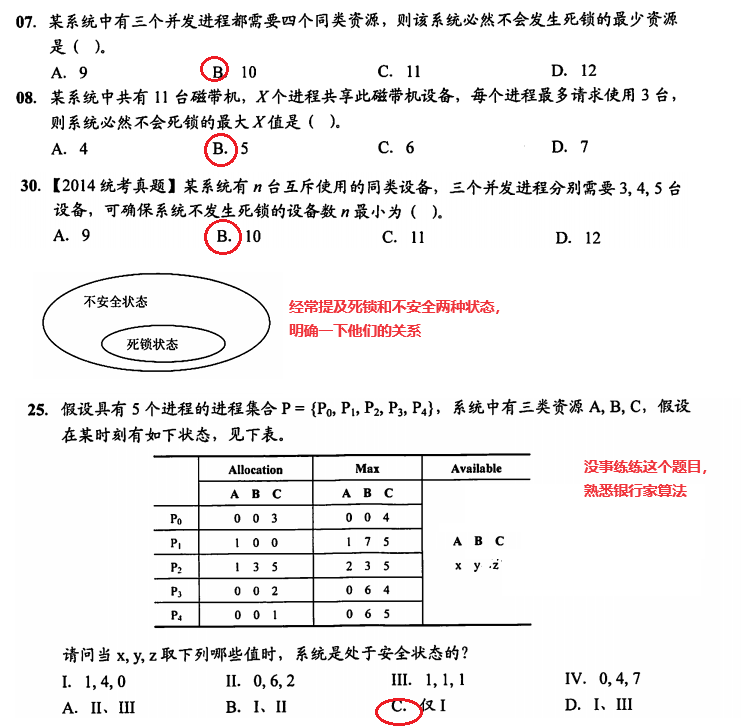
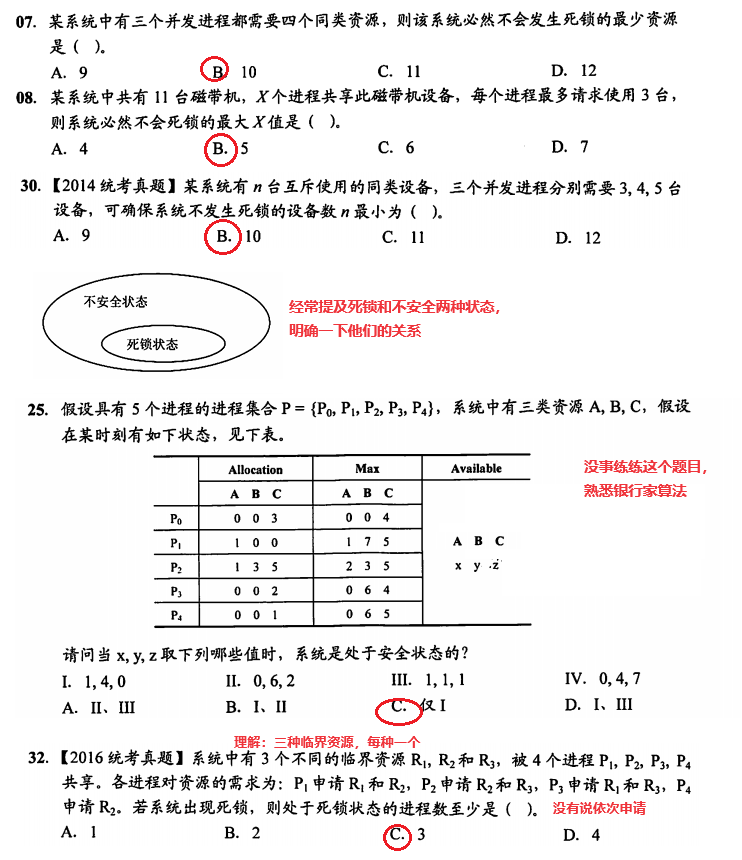
x

Changed region(s): [[0.0, 0.0, 0.9609, 1.0], [0.7749, 0.6364, 0.9609, 0.697], [0.7439, 0.7879, 0.8679, 0.8182]]

diff --git a/计算机专业课.md b/计算机专业课.md
@@ -56,3 +56,9 @@
 
 一些题目坐一坐：
 ![image-20240729155844888](img/image-20240729155844888.png)
+
+### 1.3 内存管理
+
+![image-20240729194137709](img/image-20240729194137709.png)
+
+![image-20240729201232431](img/image-20240729201232431.png)
